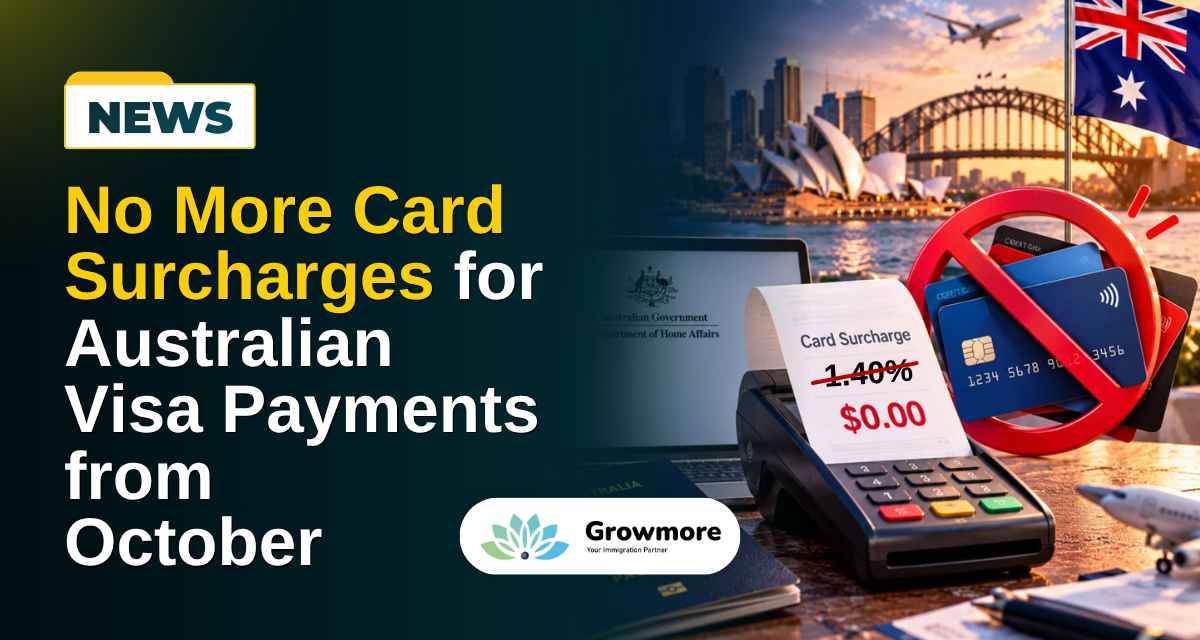
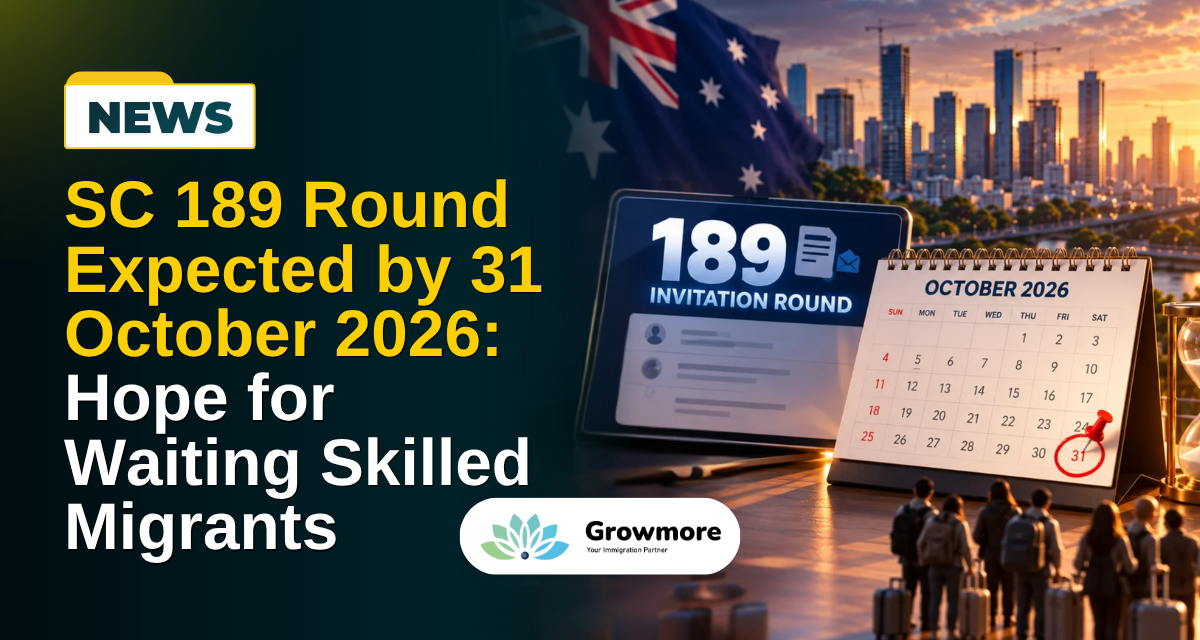
News & Blog Added

diff --git a/src/Components/BlogSection.jsx b/src/Components/BlogSection.jsx
@@ -5,6 +5,15 @@ import { Link } from "react-router-dom";
 const blogs = [
   {
     id: 1,
+    slug: "subclass-189-round-expected-by-31-october-2026-hope-for-waiting-skilled-migrants",
+    title: "Subclass 189 Round Expected by 31 October 2026: Hope for Waiting Skilled Migrants",
+    metaTitle: "Subclass 189 Invitation Round Expected by 31 October 2026",
+    metaDescription: "The next Subclass 189 invitation round is expected by 31 October 2026. Learn what the update means for skilled migrants pursuing Australia PR.",
+    date: "Oct 1, 2026",
+    image: `/assets/nb97.png`,
+  },
+  {
+    id: 2,
     slug: "australia-462-visa-recent-ballot-selections-held-for-india-and-vietnam",
     title: "Australia 462 Visa: Recent Ballot Selections Held for India and Vietnam",
     metaTitle: "Australia 462 Visa Ballot Selections for India & Vietnam",
@@ -13,22 +22,13 @@ const blogs = [
     image: `/assets/nb96.png`,
   },
   {
-    id: 2,
+    id: 3,
     slug: "south-australia-dama-extended-until-31-january-2027",
     title: "South Australia DAMAs Extended Until 31 January 2027",
     metaTitle: "SA DAMA Extension: What It Means for Employers",
     metaDescription: "Understand the SA DAMA extension, including occupation lists, concessions and employer-sponsored pathways for eligible skilled workers.",
     date: "Sep 25, 2026",
     image: `/assets/nb95.png`,
-  },
-  {
-    id: 3,
-    slug: "new-child-visa-application-instrument-2026-what-changes",
-    title: "New Child Visa Application Instrument 2026: What Changes?",
-    metaTitle: "Child Visa Application Instrument 2026: What Changes?",
-    metaDescription: "Australia's LIN 26/081 replaces the previous Child visa instrument. See the latest application, lodgement and Pakistan adoption requirements.",
-    date: "Sep 25, 2026",
-    image: `/assets/nb94.png`,
   },
 ];
 

diff --git a/src/data/newsData.js b/src/data/newsData.js
@@ -1,5 +1,14 @@
 export const news = [
   {
+    id: 135,
+    slug: "subclass-189-round-expected-by-31-october-2026-hope-for-waiting-skilled-migrants",
+    title: "Subclass 189 Round Expected by 31 October 2026: Hope for Waiting Skilled Migrants",
+    metaTitle: "Subclass 189 Invitation Round Expected by 31 October 2026",
+    metaDescription: "The next Subclass 189 invitation round is expected by 31 October 2026. Learn what the update means for skilled migrants pursuing Australia PR.",
+    date: "Oct 1, 2026",
+    image: `/assets/nb97.png`,
+  },
+  {
     id: 134,
     slug: "australia-462-visa-recent-ballot-selections-held-for-india-and-vietnam",
     title: "Australia 462 Visa: Recent Ballot Selections Held for India and Vietnam",

diff --git a/src/data/blogsData.js b/src/data/blogsData.js
@@ -1,5 +1,14 @@
 export const blogs = [
   {
+    id: 124,
+    slug: "australia-an-immigration-problem-or-an-infrastructure-problem",
+    title: "Australia:  An Immigration Problem Or an Infrastructure Problem?",
+    metaTitle: "Australia Immigration or Infrastructure Problem?",
+    metaDescription: "Is Australia facing an immigration or infrastructure problem? Explore migration trends, skilled worker needs, housing pressures and regional challenges.",
+    date: "Oct 1, 2026",
+    image: `/assets/bg124.png`,
+  },
+  {
     id: 123,
     slug: "acecqa-skills-assessment-who-needs-it-and-how-to-apply",
     title: "ACECQA Skills Assessment: Who Needs It and How to Apply",

diff --git a/public/content/blogs/australia-an-immigration-problem-or-an-infrastructure-problem.md b/public/content/blogs/australia-an-immigration-problem-or-an-infrastructure-problem.md
@@ -1,0 +1,75 @@
+As migration professionals, we regularly hear one question: **Is Australia bringing in too many migrants?**
+
+However, after reviewing recent reporting by *The Sydney Morning Herald* and *The Age*, we believe the more relevant question for Australia's migration program is whether the country has adequately planned for the migrants it already relies upon.
+
+In a recent *Morning Edition* discussion, investigative journalist **Eryk Bagshaw** examined Australia's increasing reliance on temporary migrants and the infrastructure pressures being experienced in rapidly growing parts of the country. His conclusion was that Australia's challenge should not simply be characterised as an immigration problem; infrastructure and long-term population planning are also central to the issue.
+
+From a migration perspective, this is an important distinction.
+
+## Permanent Migration Is Only Part of the Picture
+
+When discussing Australia's migration numbers, it is important to distinguish between the **Permanent Migration Program, temporary visa holders and Net Overseas Migration (NOM)**.
+
+As Bagshaw's reporting highlights, Australia's permanent migration intake has remained relatively stable over the longer term, while the temporary migrant population has grown significantly. Temporary migrants include international students, Working Holiday Makers and employer-sponsored workers, among others.
+
+This is important because Australia's migration system cannot simply be reduced to one headline number.
+
+Temporary visa holders now perform an important role across Australian industries, including agriculture, hospitality, education and skilled employment. Any significant reduction in these visa programs may therefore have consequences for employers and industries that depend upon these workers.
+
+## Australia's Migration Needs Are Different Across the Country
+
+Another important point from the reporting is the significant difference between metropolitan and regional Australia.
+
+In some rapidly growing metropolitan areas, population growth is placing additional pressure on housing, transport, schools and other infrastructure.
+
+At the same time, many regional communities are facing a completely different challenge — **an ageing population, difficulty attracting workers and declining local businesses**.
+
+Bagshaw's reporting refers to regional communities where farmers and businesses are actively seeking younger workers and families to settle locally.
+
+For migration policy, this raises an important consideration.
+
+The question should perhaps not simply be **how many migrants Australia accepts**, but also **which migrants Australia needs, where those migrants are needed, and whether appropriate employment and infrastructure exist in those locations**.
+
+## Skilled Migration Remains Important to Australia
+
+From our experience working with employers and skilled migrants, Australia's dependence on skilled migration remains evident.
+
+Employer-sponsored migration exists because businesses can face genuine difficulty sourcing suitably skilled workers within Australia. Regional migration programs similarly attempt to encourage skilled workers to live and work outside the major metropolitan centres.
+
+At the same time, Australia's skilled migration settings have increasingly focused on salary levels, genuine skilled positions and appropriate employment conditions.
+
+This indicates that the migration debate is becoming less about simply increasing or reducing migration numbers and more about **better targeting Australia's migration intake towards genuine economic and workforce requirements**.
+
+## Migration Cannot Be Considered Separately From Infrastructure
+
+Migration undoubtedly contributes to population growth and therefore increases demand for housing and public services.
+
+However, migration policy alone does not determine how quickly Australia builds houses, roads, hospitals, schools or public transport.
+
+The reporting highlights Melbourne's outer growth areas as an example where residential development has occurred rapidly while supporting infrastructure has struggled to keep pace.
+
+From a migration-policy perspective, this is significant. If Australia continues to require skilled workers, international students and temporary workers, **migration planning must operate alongside housing, infrastructure and regional-development planning**.
+
+## What Does This Mean for Migrants?
+
+For prospective migrants, the current public debate should not automatically be interpreted as meaning that Australia no longer requires migration.
+
+Rather, we are seeing an increasingly targeted migration environment.
+
+An applicant's **occupation, skills, salary, employer, work experience, location and individual circumstances** are becoming increasingly important in determining available migration pathways.
+
+For this reason, applicants should be cautious about reacting to broad headlines such as *"Australia is cutting migration"* or *"Australia has too many migrants"*. These statements do not necessarily reflect what is happening within a particular skilled, employer-sponsored or regional visa pathway.
+
+## Our View as Migration Professionals
+
+The recent reporting raises an important issue for Australia's future migration policy.
+
+Australia needs to determine not only **how many migrants it requires**, but also **what skills are required, where those skills are required, and whether housing and infrastructure can support population growth in those locations**.
+
+Migration can assist Australia with genuine workforce shortages and regional population challenges. However, effective migration policy must be accompanied by appropriate infrastructure and long-term population planning.
+
+For migrants and employers, the focus should therefore remain on understanding how their individual circumstances fit within Australia's increasingly targeted migration system — rather than making decisions based solely on the broader political debate surrounding migration.
+
+**Growmore Immigration** assists individuals and employers with Employer Sponsored, Skilled Migration and Family visa matters.
+
+> **Disclaimer:** This article provides general information and commentary only and does not constitute migration or legal advice. Migration legislation, policy and visa requirements are subject to change. Individual circumstances should be assessed before making migration decisions.

diff --git a/public/content/news/subclass-189-round-expected-by-31-october-2026-hope-for-waiting-skilled-migrants.md b/public/content/news/subclass-189-round-expected-by-31-october-2026-hope-for-waiting-skilled-migrants.md
@@ -1,0 +1,39 @@
+Another month of waiting, another change in expectations. For thousands of skilled migrants hoping to secure Australia PR through the Skilled Independent visa (subclass 189), the latest update from the Department of Home Affairs brings more disappointment than clarity.
+
+The Department’s website had previously stated that the next Subclass 189 invitation round was expected by 30 September 2026. So, applicants were waiting for an invitation and hoping to hear some good news by the end of September. However, September ended without a new invitation round.
+
+Now, on 1 October 2026, the Department has updated its website again, stating that the next invitation round is expected to be held by 31 October 2026.
+
+For applicants who have spent months waiting, this means another period of uncertainty. Many have invested time and money in skills assessments, English language tests and preparing their Expressions of Interest (EOIs). Despite this preparation, they still do not have a confirmed date for the next invitation round.
+
+## What Does the October 2026 Update Mean for Subclass 189 Applicants?
+
+The updated timeline means that skilled migrants waiting for an invitation will need to wait longer for the next round. However, the Department’s expected date of 31 October 2026 should not be treated as a confirmed invitation date.
+
+For applicants who have already submitted their Expression of Interest (EOI), the key concern remains the same: when will invitations be issued, and what points score will be required?
+
+At this stage, the expected date alone does not confirm how many invitations will be issued, which occupations will receive invitations or what the minimum points scores will be. These details will depend on the actual invitation round and the candidates selected.
+
+## What About Subclass 190 and 491 Applicants?
+
+The uncertainty is not limited to Subclass 189 applicants. Those waiting for Subclass 190 and 491 nominations are also seeking updates from the Department, as many states and territories are still awaiting nomination allocations for 2026–27. This leaves many skilled migrants unsure about when they might get an opportunity to move closer to Australia PR.
+
+With invitation timelines changing and nomination updates still awaited, the Department needs to provide clearer and more timely communication to help skilled migrants plan their future. Without greater clarity, applicants are left waiting and uncertain about when they may get their opportunity to pursue Australia PR.
+
+## What Should You Do While Waiting for a Subclass 189 Invitation?
+
+While applicants cannot control the timing of invitation rounds, they can take practical steps to ensure they are prepared.
+
+- **Review your EOI:** Check that your qualifications, employment history, English test results and other claimed points are accurate.
+- **Reassess your points score:** Confirm that you meet the requirements for each points claim and retain the supporting evidence.
+- **Check your skills assessment:** Ensure it is appropriate for your nominated occupation and remains valid where required.
+- **Keep your documents ready:** Organise employment references, qualification documents, English test results and other relevant evidence.
+- **Explore other migration pathways:** Depending on your occupation and circumstances, Subclass 190, Subclass 491 or an eligible employer-sponsored visa may be worth considering.
+
+## Unsure About Your Next Step After the Subclass 189 Delay?
+
+If you are still waiting for a Subclass 189 invitation, this may be the time to review your EOI and explore other eligible Australian migration pathways. At Growmore Immigration, our registered migration agent in Australia helps skilled migrants understand visa requirements and assess options based on their occupation, points score and individual circumstances.
+
+Contact Growmore Immigration to discuss your migration options and understand the next steps you can take towards Australia PR.
+
+**Source:** [SkillSelect - Expression of Interest](https://immi.homeaffairs.gov.au/visas/working-in-australia/skillselect/expression-of-interest)
